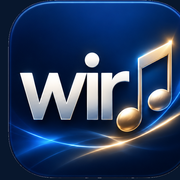
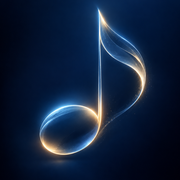
Add files via upload

diff --git a/app.js b/app.js
@@ -1,20 +1,20 @@
 'use strict';
 const $=id=>document.getElementById(id), audio=$('audio');
-let tracks=[],current=-1,shuffle=false,repeat='off',filter='all',sort='original',playing=false,randomHistory=[];
+let tracks=[],current=-1,filter='all',sort='original',playing=false;
 const storageKey='wir-favorites-v1';const selectedKey='wir-selected-track-v2';let refreshing=false;let favorites=new Set(JSON.parse(localStorage.getItem(storageKey)||'[]'));
 const remember=()=>localStorage.setItem(storageKey,JSON.stringify([...favorites]));
 const fmt=s=>Number.isFinite(s)?`${Math.floor(s/60)}:${String(Math.floor(s%60)).padStart(2,'0')}`:'0:00';
 const toast=msg=>{const e=$('toast');e.textContent=msg;e.style.display='block';clearTimeout(toast.timer);toast.timer=setTimeout(()=>e.style.display='none',3200)};
 const canPlay=track=>{const ext=track.file.split('.').pop().toLowerCase();return audio.canPlayType(ext==='mp3'?'audio/mpeg':'audio/mp4')!==''};
-function updateControls(){const t=tracks[current];$('title').textContent=t?t.title:'Noch keine Musik';$('subtitle').textContent=t?(t.artist||'wir · Playlist'):'Füge Audiodateien zum Ordner audio hinzu';$('play').textContent=playing?'❚❚':'▶';$('play').setAttribute('aria-label',playing?'Pause':'Abspielen');$('favorite').classList.toggle('active',!!t&&favorites.has(t.file));$('favorite').innerHTML=(t&&favorites.has(t.file)?'♥':'♡')+' <span>Favorit</span>';$('count').textContent=`(${tracks.length})`;const c=$('cover');c.replaceChildren();if(t&&t.cover){const img=new Image();img.src=t.cover;img.alt='Cover: '+t.title;img.onerror=()=>{c.innerHTML='<div class="cover-placeholder"><span>♫</span><strong>wir</strong></div>'};c.append(img)}else c.innerHTML='<div class="cover-placeholder"><span>♫</span><strong>wir</strong></div>';}
+function updateControls(){const t=tracks[current];$('title').textContent=t?t.title:'Noch keine Musik';$('play').innerHTML=playing?'<svg viewBox="0 0 24 24" aria-hidden="true"><path d="M7 5h4v14H7zm6 0h4v14h-4z" fill="currentColor"/></svg>':'<svg viewBox="0 0 24 24" aria-hidden="true"><path d="M8 5v14l11-7z" fill="currentColor"/></svg>';$('play').setAttribute('aria-label',playing?'Pause':'Abspielen');$('count').textContent=`(${tracks.length})`;const c=$('cover');c.replaceChildren();if(t&&t.cover){const img=new Image();img.src=t.cover;img.alt='Cover: '+t.title;img.onerror=()=>{c.innerHTML='<img src="icons/icon-512.png" alt="Musiknote aus Licht">'};c.append(img)}else c.innerHTML='<img src="icons/icon-512.png" alt="Musiknote aus Licht">';}
 function select(i,autoplay=true){if(i<0||i>=tracks.length)return;current=i;const t=tracks[i];localStorage.setItem(selectedKey,t.file);audio.src=t.file;audio.load();playing=false;updateControls();renderList();if(autoplay)play();}
 async function play(){if(!tracks.length){toast('Noch keine Musik vorhanden.');return}if(current<0)select(0,false);try{await audio.play();playing=true;updateControls()}catch(e){playing=false;updateControls();toast('Wiedergabe nicht möglich. Bitte Audioformat prüfen.')}}
 function pause(){audio.pause();playing=false;updateControls()}
 function stop(){audio.pause();try{audio.currentTime=0}catch(e){}playing=false;updateControls();updateProgress()}
-function next(direction=1){if(!tracks.length)return;let i;if(shuffle&&tracks.length>1){if(direction<0&&randomHistory.length)i=randomHistory.pop();else{randomHistory.push(current);const choices=tracks.map((_,n)=>n).filter(n=>n!==current);i=choices[Math.floor(Math.random()*choices.length)]}}else i=(current+direction+tracks.length)%tracks.length;select(i)}
+function next(direction=1){if(!tracks.length)return;select((current+direction+tracks.length)%tracks.length)}
 function updateProgress(){const dur=audio.duration||0;$('elapsed').textContent=fmt(audio.currentTime||0);$('duration').textContent=fmt(dur);$('seek').value=dur?Math.round((audio.currentTime/dur)*1000):0;}
-function renderList(){const list=$('track-list');list.replaceChildren();let rows=tracks.map((t,i)=>({...t,i}));if(filter==='favorites')rows=rows.filter(t=>favorites.has(t.file));if(sort==='alpha')rows.sort((a,b)=>a.title.localeCompare(b.title,'de'));if(sort==='new')rows.reverse();if(!rows.length){const e=document.createElement('div');e.className='empty';e.textContent=tracks.length?'Hier sind noch keine Favoriten. Tippe bei einem Titel auf ♡.':'Noch keine Titel. Lade MP3-, M4A- oder M4B-Dateien in den Ordner audio hoch.';list.append(e);return}for(const t of rows){const row=document.createElement('div');row.className='track'+(t.i===current?' playing':'');const btn=document.createElement('button');btn.className='track-select';const mini=document.createElement('span');mini.className='mini-cover';if(t.cover){const img=new Image();img.src=t.cover;img.alt='';img.onerror=()=>mini.textContent='♫';mini.append(img)}else mini.textContent='♫';const text=document.createElement('span');text.style.minWidth='0';const name=document.createElement('div');name.className='track-name';name.textContent=t.title;const meta=document.createElement('div');meta.className='track-meta';meta.textContent=(t.artist||'wir')+' · '+t.file.split('.').pop().toUpperCase();text.append(name,meta);btn.append(mini,text);btn.onclick=()=>select(t.i);const heart=document.createElement('button');heart.className='heart'+(favorites.has(t.file)?' on':'');heart.textContent=favorites.has(t.file)?'♥':'♡';heart.setAttribute('aria-label','Favorit umschalten: '+t.title);heart.onclick=()=>{favorites.has(t.file)?favorites.delete(t.file):favorites.add(t.file);remember();renderList();updateControls()};row.append(btn,heart);list.append(row)}}
-$('play').onclick=()=>playing?pause():play();$('stop').onclick=stop;$('previous').onclick=()=>next(-1);$('next').onclick=()=>next(1);$('back').onclick=()=>{if(current>=0)audio.currentTime=Math.max(0,audio.currentTime-15)};$('forward').onclick=()=>{if(current>=0&&Number.isFinite(audio.duration))audio.currentTime=Math.min(audio.duration,audio.currentTime+30)};$('seek').oninput=e=>{if(current>=0&&Number.isFinite(audio.duration))audio.currentTime=Number(e.target.value)/1000*audio.duration};$('shuffle').onclick=()=>{shuffle=!shuffle;$('shuffle').classList.toggle('active',shuffle);$('shuffle').setAttribute('aria-pressed',String(shuffle));randomHistory=[]};$('repeat').onclick=()=>{repeat=repeat==='off'?'all':repeat==='all'?'one':'off';$('repeat-label').textContent=repeat==='off'?'Aus':repeat==='all'?'Alle':'1 Titel';$('repeat').classList.toggle('active',repeat!=='off')};$('favorite').onclick=()=>{if(current<0)return;const file=tracks[current].file;favorites.has(file)?favorites.delete(file):favorites.add(file);remember();updateControls();renderList()};$('toggle-list').onclick=()=>{const e=$('playlist-shell');e.classList.toggle('open');$('toggle-list').setAttribute('aria-expanded',String(e.classList.contains('open')))};$('all-filter').onclick=()=>{filter='all';$('all-filter').classList.add('selected');$('fav-filter').classList.remove('selected');renderList()};$('fav-filter').onclick=()=>{filter='favorites';$('fav-filter').classList.add('selected');$('all-filter').classList.remove('selected');renderList()};$('sort').onchange=e=>{sort=e.target.value;renderList()};audio.ontimeupdate=updateProgress;audio.onloadedmetadata=updateProgress;audio.onpause=()=>{playing=false;updateControls()};audio.onplay=()=>{playing=true;updateControls()};audio.onerror=()=>{if(current>=0){const codes={1:'Wiedergabe abgebrochen',2:'Datei konnte nicht geladen werden',3:'Audio konnte nicht decodiert werden',4:'Audioformat oder Dateipfad nicht unterstützt'};const code=audio.error?.code;toast((codes[code]||'Audiofehler')+' (Code '+(code||'?')+').')}};audio.onended=()=>{if(repeat==='one'){audio.currentTime=0;play()}else if(repeat==='all'||shuffle||current<tracks.length-1)next();else stop()};
+function renderList(){const list=$('track-list');list.replaceChildren();let rows=tracks.map((t,i)=>({...t,i}));if(filter==='favorites')rows=rows.filter(t=>favorites.has(t.file));if(sort==='alpha')rows.sort((a,b)=>a.title.localeCompare(b.title,'de'));if(sort==='new')rows.reverse();if(!rows.length){const e=document.createElement('div');e.className='empty';e.textContent=tracks.length?'Hier sind noch keine Favoriten. Tippe bei einem Titel auf ♡.':'Noch keine Titel. Lade MP3-, M4A- oder M4B-Dateien in den Ordner audio hoch.';list.append(e);return}for(const t of rows){const row=document.createElement('div');row.className='track'+(t.i===current?' playing':'');const btn=document.createElement('button');btn.className='track-select';const mini=document.createElement('span');mini.className='mini-cover';if(t.cover){const img=new Image();img.src=t.cover;img.alt='';img.onerror=()=>mini.textContent='♫';mini.append(img)}else mini.textContent='♫';const text=document.createElement('span');text.style.minWidth='0';const name=document.createElement('div');name.className='track-name';name.textContent=t.title;text.append(name);btn.append(mini,text);btn.onclick=()=>select(t.i);const heart=document.createElement('button');heart.className='heart'+(favorites.has(t.file)?' on':'');heart.textContent=favorites.has(t.file)?'♥':'♡';heart.setAttribute('aria-label','Favorit umschalten: '+t.title);heart.onclick=()=>{favorites.has(t.file)?favorites.delete(t.file):favorites.add(t.file);remember();renderList();updateControls()};row.append(btn,heart);list.append(row)}}
+$('play').onclick=()=>playing?pause():play();$('previous').onclick=()=>next(-1);$('next').onclick=()=>next(1);$('back').onclick=()=>{if(current>=0)audio.currentTime=Math.max(0,audio.currentTime-15)};$('forward').onclick=()=>{if(current>=0&&Number.isFinite(audio.duration))audio.currentTime=Math.min(audio.duration,audio.currentTime+30)};$('seek').oninput=e=>{if(current>=0&&Number.isFinite(audio.duration))audio.currentTime=Number(e.target.value)/1000*audio.duration};$('toggle-list').onclick=()=>{const e=$('playlist-shell');e.classList.toggle('open');$('toggle-list').setAttribute('aria-expanded',String(e.classList.contains('open')))};$('all-filter').onclick=()=>{filter='all';$('all-filter').classList.add('selected');$('fav-filter').classList.remove('selected');renderList()};$('fav-filter').onclick=()=>{filter='favorites';$('fav-filter').classList.add('selected');$('all-filter').classList.remove('selected');renderList()};$('sort').onchange=e=>{sort=e.target.value;renderList()};audio.ontimeupdate=updateProgress;audio.onloadedmetadata=updateProgress;audio.onpause=()=>{playing=false;updateControls()};audio.onplay=()=>{playing=true;updateControls()};audio.onerror=()=>{if(current>=0){const codes={1:'Wiedergabe abgebrochen',2:'Datei konnte nicht geladen werden',3:'Audio konnte nicht decodiert werden',4:'Audioformat oder Dateipfad nicht unterstützt'};const code=audio.error?.code;toast((codes[code]||'Audiofehler')+' (Code '+(code||'?')+').')}};audio.onended=()=>{if(current<tracks.length-1)next();else stop()};
 async function refreshPlaylist({quiet=false}={}){
  if(refreshing)return;refreshing=true;
  const oldFile=tracks[current]?.file;const wasPlaying=!audio.paused&&!audio.ended;
@@ -44,4 +44,4 @@ document.addEventListener('touchstart',e=>{if(e.touches.length!==1||isPlaylistSc
 document.addEventListener('touchmove',e=>{if(pullStart===null)return;pullDistance=Math.max(0,e.touches[0].clientY-pullStart);if(pullDistance>12){indicator.style.opacity='1';indicator.style.transform='translate(-50%,0)';indicator.textContent=pullDistance>75?'↑ Loslassen zum Aktualisieren':'↓ Zum Aktualisieren ziehen'}},{passive:true});
 document.addEventListener('touchend',()=>{if(pullStart!==null&&pullDistance>75)refreshPlaylist();pullStart=null;pullDistance=0;indicator.style.opacity='0';indicator.style.transform='translate(-50%,-15px)'},{passive:true});
 refreshPlaylist({quiet:true});
-if('serviceWorker' in navigator){navigator.serviceWorker.register('./sw.js?v=002').then(reg=>reg.update()).catch(()=>{})}
+if('serviceWorker' in navigator){navigator.serviceWorker.register('./sw.js?v=003').then(reg=>reg.update()).catch(()=>{})}

diff --git a/style.css b/style.css
@@ -1,25 +1,17 @@
 
 :root{color-scheme:dark;--bg:#08172d;--surface:#112643;--accent:#8bc7e9;--text:#f1f6ff;--muted:#9bb1ca}
-*{box-sizing:border-box}
-html,body{margin:0;width:100%;height:100%;overflow:hidden;overscroll-behavior:none;background:var(--bg);font-family:-apple-system,BlinkMacSystemFont,"Segoe UI",sans-serif;color:var(--text)}
-body{background:radial-gradient(ellipse at 50% 15%,#1b3556 0%,#08172d 72%)}
-button,input,select{font:inherit}button{cursor:pointer;-webkit-tap-highlight-color:transparent}
-.app{position:relative;width:min(100%,560px);height:100vh;height:100dvh;min-height:0;margin:auto;display:flex;flex-direction:column;padding:calc(env(safe-area-inset-top) + 8px) 16px calc(env(safe-area-inset-bottom) + 9px);gap:7px;overflow:hidden}
-header{display:flex;align-items:center;justify-content:space-between;flex:none;min-height:34px}
-.home-refresh{border:0;background:transparent;padding:4px 1px;color:inherit}
-.brand{font-size:26px;font-weight:750;letter-spacing:-1px}.brand-dot{color:var(--accent)}.tagline{font-size:10px;letter-spacing:3px;color:var(--muted)}
-.now{min-height:0;flex:0 1 auto;display:flex;flex-direction:column;align-items:center;gap:3px;overflow:hidden}
-h1{font-size:clamp(17px,2.7vh,24px);font-weight:650;text-align:center;line-height:1.22;margin:0;max-width:100%;white-space:nowrap;overflow:hidden;text-overflow:ellipsis;flex:none}
-#subtitle{font-size:11px;color:var(--muted);margin:0 0 2px;text-align:center;white-space:nowrap;overflow:hidden;text-overflow:ellipsis;max-width:100%;flex:none}
-.cover{width:min(100%,min(38dvh,330px));height:min(100vw - 32px,min(38dvh,330px));aspect-ratio:1/1;max-height:min(38dvh,330px);border-radius:18px;overflow:hidden;box-shadow:0 12px 28px #0008;background:linear-gradient(140deg,#345779,#10213e 65%,#09172a);flex:none;display:grid;place-items:center}
-.cover img{height:100%;width:100%;object-fit:contain;display:block}.cover-placeholder{display:flex;flex-direction:column;align-items:center;color:#bcdcf0}.cover-placeholder span{font-size:clamp(48px,9vh,90px);line-height:1.2}.cover-placeholder strong{font-size:clamp(26px,5vh,46px);letter-spacing:-3px}
+*{box-sizing:border-box}html,body{margin:0;width:100%;height:100%;overflow:hidden;overscroll-behavior:none;background:var(--bg);font-family:-apple-system,BlinkMacSystemFont,"Segoe UI",sans-serif;color:var(--text)}
+body{background:radial-gradient(ellipse at 50% 12%,#1b3556 0%,#08172d 75%)}button,input,select{font:inherit}button{cursor:pointer;-webkit-tap-highlight-color:transparent}
+.app{width:min(100%,620px);height:100vh;height:100dvh;min-height:0;margin:auto;display:flex;flex-direction:column;padding:calc(env(safe-area-inset-top) + 5px) 14px calc(env(safe-area-inset-bottom) + 6px);gap:5px;overflow:hidden;position:relative}
+header{display:flex;align-items:center;justify-content:space-between;flex:none;min-height:32px}.home-refresh{border:0;background:transparent;padding:3px 1px;color:inherit}.brand{font-size:25px;font-weight:750;letter-spacing:-1px}.brand-dot{color:var(--accent)}.tagline{font-size:10px;letter-spacing:2.7px;color:var(--muted)}
+.now{min-height:0;flex:0 1 auto;display:flex;flex-direction:column;align-items:center;gap:6px;overflow:hidden}h1{font-size:clamp(17px,2.5vh,23px);font-weight:650;text-align:center;line-height:1.2;margin:0;max-width:100%;white-space:nowrap;overflow:hidden;text-overflow:ellipsis;flex:none}
+.cover{width:min(100%,34dvh,315px);height:min(100%,34dvh,315px);aspect-ratio:1;max-width:calc(100vw - 32px);border-radius:16px;overflow:hidden;box-shadow:0 8px 22px #0007;background:#10213e;flex:none;display:grid;place-items:center}.cover img{height:100%;width:100%;object-fit:contain;display:block}
 .controls{flex:none;padding:0 2px}.seek-row{display:flex;gap:8px;align-items:center;font-size:12px;color:var(--muted);font-variant-numeric:tabular-nums}.seek-row span{min-width:34px}.seek-row span:last-child{text-align:right}#seek{flex:1;min-width:0;accent-color:var(--accent);cursor:pointer;height:20px}
-.transport{display:flex;align-items:center;justify-content:space-between;gap:2px;margin:3px 0}.transport button{border:0;background:none;color:var(--text);font-size:22px;min-width:34px;min-height:41px;display:grid;place-items:center}.transport .primary{border-radius:50%;background:var(--accent);color:#0b2239;width:54px;height:54px;font-size:24px;box-shadow:0 5px 18px #0005}.transport .jump{position:relative;font-size:32px}.jump small{position:absolute;top:15px;font-size:10px;font-weight:800}
-.extras{display:flex;justify-content:space-around;gap:5px}.extras button{background:none;border:0;color:var(--muted);padding:5px;font-size:18px}.extras button span{font-size:12px}.extras button.active{color:var(--accent)}
-.playlist-shell{flex:1 1 0;min-height:54px;border:1px solid #38506d;background:#112540e8;border-radius:14px;overflow:hidden;display:flex;flex-direction:column}.playlist-shell:not(.open){flex:0 0 auto}.list-toggle{width:100%;display:flex;justify-content:space-between;align-items:center;background:none;border:0;color:var(--text);font-weight:650;text-align:left;padding:11px 15px;flex:none}.list-toggle b{font-weight:400;color:var(--muted)}#chevron{transition:transform .2s}.playlist-shell:not(.open) #chevron{transform:rotate(180deg)}.playlist-body{display:flex;flex-direction:column;min-height:0;flex:1}.playlist-shell:not(.open) .playlist-body{display:none}
-.list-tools{display:flex;align-items:center;gap:5px;padding:0 10px 9px;flex:none}.list-tools button,.list-tools select{border:1px solid #395573;background:#152c4a;border-radius:9px;color:var(--muted);font-size:11px;padding:7px 8px}.list-tools .selected{background:#2b5275;color:white}.list-tools select{margin-left:auto;max-width:120px}
-.track-list{overflow-y:auto;overflow-x:hidden;-webkit-overflow-scrolling:touch;overscroll-behavior:contain;min-height:0;flex:1}.track{display:flex;gap:10px;align-items:center;padding:9px 11px;border-top:1px solid #ffffff13}.track.playing{background:#29486966}.track .track-select{flex:1;min-width:0;text-align:left;color:var(--text);background:none;border:0;display:flex;align-items:center;gap:10px}.mini-cover{width:40px;height:40px;border-radius:6px;background:#254460;display:grid;place-items:center;overflow:hidden;flex:none}.mini-cover img{width:100%;height:100%;object-fit:cover}.track-name{overflow:hidden;text-overflow:ellipsis;white-space:nowrap;font-size:13px}.track-meta{color:var(--muted);font-size:10px;margin-top:3px}.heart{background:none;border:0;color:#a6bad0;font-size:23px;padding:8px}.heart.on{color:#ff829a}.empty{padding:20px;text-align:center;color:var(--muted);font-size:13px;line-height:1.5}
+.transport{display:flex;align-items:center;justify-content:space-between;gap:2px;margin:0}.transport button{border:0;background:none;color:#c2d8ea;font-size:22px;min-width:42px;min-height:43px;display:grid;place-items:center}.transport .primary{border:1px solid #6791b4;border-radius:50%;background:linear-gradient(150deg,#244361,#112944);color:#bde7ff;width:49px;height:49px;box-shadow:0 3px 10px #0004}.primary svg{width:22px;height:22px}.transport .jump{position:relative;width:43px;height:43px}.jump svg{width:36px;height:36px;fill:none;stroke:currentColor;stroke-width:2.5;stroke-linecap:round;stroke-linejoin:round}.jump small{position:absolute;top:17px;left:0;right:0;text-align:center;font-size:10px;font-weight:700;pointer-events:none}
+.playlist-shell{flex:1 1 0;min-height:65px;border:1px solid #38506d;background:#112540e8;border-radius:14px;overflow:hidden;display:flex;flex-direction:column}.playlist-shell:not(.open){flex:0 0 auto}.list-toggle{width:100%;display:flex;justify-content:space-between;align-items:center;background:none;border:0;color:var(--text);font-weight:650;text-align:left;padding:9px 13px;flex:none}.list-toggle b{font-weight:400;color:var(--muted)}#chevron{transition:transform .2s}.playlist-shell:not(.open) #chevron{transform:rotate(180deg)}.playlist-body{display:flex;flex-direction:column;min-height:0;flex:1}.playlist-shell:not(.open) .playlist-body{display:none}
+.list-tools{display:flex;align-items:center;gap:5px;padding:0 9px 6px;flex:none}.list-tools button,.list-tools select{border:1px solid #395573;background:#152c4a;border-radius:8px;color:var(--muted);font-size:11px;padding:6px 8px}.list-tools .selected{background:#2b5275;color:white}.list-tools select{margin-left:auto;max-width:120px}
+.track-list{overflow-y:auto;overflow-x:hidden;-webkit-overflow-scrolling:touch;overscroll-behavior:contain;min-height:0;flex:1}.track{display:flex;gap:7px;align-items:center;padding:5px 9px;border-top:1px solid #ffffff13;min-height:55px}.track.playing{background:#29486966}.track .track-select{flex:1;min-width:0;text-align:left;color:var(--text);background:none;border:0;display:flex;align-items:center;gap:9px;padding:0}.mini-cover{width:39px;height:39px;border-radius:6px;background:#254460;display:grid;place-items:center;overflow:hidden;flex:none}.mini-cover img{width:100%;height:100%;object-fit:cover}.track-name{overflow:hidden;text-overflow:ellipsis;white-space:nowrap;font-size:13px}.heart{background:none;border:0;color:#a6bad0;font-size:23px;padding:6px 8px}.heart.on{color:#ff829a}.empty{padding:20px;text-align:center;color:var(--muted);font-size:13px;line-height:1.5}
 .toast{position:fixed;z-index:30;left:50%;bottom:calc(env(safe-area-inset-bottom) + 45px);transform:translateX(-50%);background:#28486a;color:white;border-radius:12px;padding:10px 14px;font-size:12px;display:none;max-width:90%;text-align:center;box-shadow:0 6px 24px #0008}.pull-indicator{position:absolute;z-index:20;top:calc(env(safe-area-inset-top) + 43px);left:50%;transform:translate(-50%,-15px);opacity:0;pointer-events:none;white-space:nowrap;padding:7px 12px;border-radius:12px;background:#294b6e;color:white;font-size:12px;transition:opacity .12s}
-@media(max-height:720px){.app{gap:4px;padding-top:calc(env(safe-area-inset-top) + 4px)}.cover{width:min(100%,min(32dvh,270px));height:min(100vw - 32px,min(32dvh,270px));max-height:min(32dvh,270px)}.transport .primary{width:48px;height:48px}.list-toggle{padding:9px 13px}}
-@media(max-height:550px){.cover{width:min(100%,min(25dvh,185px));height:min(100vw - 32px,min(25dvh,185px));max-height:min(25dvh,185px)}.transport .primary{width:42px;height:42px}.extras button{padding:2px}}
-@media(min-width:750px){.app{max-width:560px;padding-top:14px;padding-bottom:14px}.cover{width:min(100%,min(37dvh,350px));height:min(100vw - 32px,min(37dvh,350px));max-height:min(37dvh,350px)}}
+@media(max-height:700px){.cover{width:min(100%,30dvh,265px);height:min(100%,30dvh,265px)}.app{gap:3px}.transport .primary{width:44px;height:44px}}
+@media(max-height:530px){.cover{width:min(100%,24dvh,185px);height:min(100%,24dvh,185px)}.transport button{min-height:36px}.transport .primary{width:39px;height:39px}}
+@media(min-width:750px){.app{padding-top:12px;padding-bottom:12px}.cover{width:min(34dvh,340px);height:min(34dvh,340px)}}

diff --git a/index.html b/index.html
@@ -1,2 +1,2 @@
-<!doctype html><html lang="de"><head><meta charset="utf-8"><meta name="viewport" content="width=device-width,initial-scale=1,viewport-fit=cover"><meta name="theme-color" content="#08172d"><meta name="apple-mobile-web-app-capable" content="yes"><meta name="apple-mobile-web-app-status-bar-style" content="black-translucent"><meta name="apple-mobile-web-app-title" content="wir"><link rel="manifest" href="manifest.webmanifest"><link rel="apple-touch-icon" href="icons/icon-192.png"><link rel="stylesheet" href="style.css?v=002"><title>wir · Musik</title>  <link rel="apple-touch-icon" href="icons/apple-touch-icon.png">
-</head><body><main class="app"><header><button class="brand home-refresh" id="home-brand" type="button" title="Musik aktualisieren" aria-label="Zur Startansicht und Musik aktualisieren">wir<span class="brand-dot">.</span></button><button class="tagline home-refresh" id="home-tagline" type="button" title="Musik aktualisieren" aria-label="Zur Startansicht und Musik aktualisieren">UNSERE MUSIK</button></header><div id="pull-indicator" class="pull-indicator" aria-live="polite">↓ Zum Aktualisieren ziehen</div><section class="now"><h1 id="title">Noch keine Musik</h1><p id="subtitle">Füge Audiodateien zum Ordner audio hinzu</p><div class="cover" id="cover"><div class="cover-placeholder"><span>♫</span><strong>wir</strong></div></div></section><section class="controls"><div class="seek-row"><span id="elapsed">0:00</span><input id="seek" type="range" min="0" max="1000" value="0" aria-label="Abspielposition"><span id="duration">0:00</span></div><div class="transport"><button id="previous" title="Vorheriger Titel" aria-label="Vorheriger Titel">⏮</button><button id="back" class="jump" title="15 Sekunden zurück" aria-label="15 Sekunden zurück"><span>↶</span><small>15</small></button><button id="play" class="primary" title="Abspielen oder pausieren" aria-label="Abspielen">▶</button><button id="stop" title="Stopp" aria-label="Stopp">■</button><button id="forward" class="jump" title="30 Sekunden vor" aria-label="30 Sekunden vor"><span>↷</span><small>30</small></button><button id="next" title="Nächster Titel" aria-label="Nächster Titel">⏭</button></div><div class="extras"><button id="shuffle" aria-pressed="false" title="Zufall">🔀 <span>Zufall</span></button><button id="repeat" title="Wiederholen: aus" aria-label="Wiederholen">🔁 <span id="repeat-label">Aus</span></button><button id="favorite" title="Favorit" aria-label="Favorit">♡ <span>Favorit</span></button></div></section><section class="playlist-shell open" id="playlist-shell"><button id="toggle-list" class="list-toggle" aria-expanded="true"><span>♫ &nbsp; Playlist <b id="count">(0)</b></span><span id="chevron">⌄</span></button><div class="playlist-body" id="playlist-body"><div class="list-tools"><button id="all-filter" class="selected">Alle Titel</button><button id="fav-filter">♥ Favoriten</button><select id="sort" aria-label="Sortierung"><option value="original">Reihenfolge</option><option value="alpha">Titel A–Z</option><option value="new">Neueste zuerst</option></select></div><div class="track-list" id="track-list"></div></div></section><div class="toast" id="toast" role="status"></div></main><audio id="audio" preload="metadata"></audio><script src="app.js?v=002" defer></script></body></html>
+<!doctype html><html lang="de"><head><meta charset="utf-8"><meta name="viewport" content="width=device-width,initial-scale=1,viewport-fit=cover"><meta name="theme-color" content="#08172d"><meta name="apple-mobile-web-app-capable" content="yes"><meta name="apple-mobile-web-app-status-bar-style" content="black-translucent"><meta name="apple-mobile-web-app-title" content="wir"><link rel="manifest" href="manifest.webmanifest"><link rel="apple-touch-icon" href="icons/icon-192.png"><link rel="stylesheet" href="style.css?v=003"><title>wir · Musik</title>  <link rel="apple-touch-icon" href="icons/apple-touch-icon.png">
+</head><body><main class="app"><header><button class="brand home-refresh" id="home-brand" type="button" title="Musik aktualisieren" aria-label="Zur Startansicht und Musik aktualisieren">wir<span class="brand-dot">.</span></button><button class="tagline home-refresh" id="home-tagline" type="button" title="Musik aktualisieren" aria-label="Zur Startansicht und Musik aktualisieren">UNSERE MUSIK</button></header><div id="pull-indicator" class="pull-indicator" aria-live="polite">↓ Zum Aktualisieren ziehen</div><section class="now"><h1 id="title">Noch keine Musik</h1><div class="cover" id="cover"><img src="icons/icon-512.png" alt="Musiknote aus Licht"></div></section><section class="controls"><div class="seek-row"><span id="elapsed">0:00</span><input id="seek" type="range" min="0" max="1000" value="0" aria-label="Abspielposition"><span id="duration">0:00</span></div><div class="transport"><button id="previous" title="Vorheriger Titel" aria-label="Vorheriger Titel">⏮</button><button id="back" class="jump" title="15 Sekunden zurück" aria-label="15 Sekunden zurück"><svg viewBox="0 0 48 48" aria-hidden="true"><path d="M15 11A18 18 0 1 1 7 26"/><path d="M15 3v9H6"/></svg><small>15</small></button><button id="play" class="primary" title="Abspielen oder pausieren" aria-label="Abspielen"><svg viewBox="0 0 24 24" aria-hidden="true"><path d="M8 5v14l11-7z" fill="currentColor"/></svg></button><button id="forward" class="jump" title="30 Sekunden vor" aria-label="30 Sekunden vor"><svg viewBox="0 0 48 48" aria-hidden="true"><path d="M33 11A18 18 0 1 0 41 26"/><path d="M33 3v9h9"/></svg><small>30</small></button><button id="next" title="Nächster Titel" aria-label="Nächster Titel">⏭</button></div></section><section class="playlist-shell open" id="playlist-shell"><button id="toggle-list" class="list-toggle" aria-expanded="true"><span>♫ &nbsp; Playlist <b id="count">(0)</b></span><span id="chevron">⌄</span></button><div class="playlist-body" id="playlist-body"><div class="list-tools"><button id="all-filter" class="selected">Alle Titel</button><button id="fav-filter">♥ Favoriten</button><select id="sort" aria-label="Sortierung"><option value="original">Reihenfolge</option><option value="alpha">Titel A–Z</option><option value="new">Neueste zuerst</option></select></div><div class="track-list" id="track-list"></div></div></section><div class="toast" id="toast" role="status"></div></main><audio id="audio" preload="metadata"></audio><script src="app.js?v=003" defer></script></body></html>

diff --git a/sw.js b/sw.js
@@ -1,5 +1,5 @@
-const CACHE='wir-player-002';
-const ASSETS=['./index.html','./style.css?v=002','./app.js?v=002','./manifest.webmanifest','./icons/icon-192.png','./icons/icon-512.png'];
+const CACHE='wir-player-003';
+const ASSETS=['./index.html','./style.css?v=003','./app.js?v=003','./manifest.webmanifest','./icons/icon-192.png','./icons/icon-512.png'];
 self.addEventListener('install',event=>{event.waitUntil(caches.open(CACHE).then(c=>c.addAll(ASSETS)));self.skipWaiting()});
 self.addEventListener('activate',event=>{event.waitUntil(caches.keys().then(keys=>Promise.all(keys.filter(k=>k.startsWith('wir-player-')&&k!==CACHE).map(k=>caches.delete(k)))));self.clients.claim()});
 self.addEventListener('fetch',event=>{const req=event.request;if(req.method!=='GET')return;const url=new URL(req.url);if(url.origin!==location.origin)return;

diff --git a/generate_playlist.py b/generate_playlist.py
@@ -56,6 +56,7 @@ def metadata(path):
 
 
 tracks = []
+(ROOT / 'audio').mkdir(exist_ok=True)
 for audio in sorted((ROOT / 'audio').iterdir(), key=lambda p: p.name.casefold()):
     if not audio.is_file() or audio.suffix.lower() not in FORMATS:
         continue

diff --git a/README.md b/README.md
@@ -1,35 +1,19 @@
-# wir – Unsere Musik
+# wir · Musikplayer 003
 
-Eine installierbare Web-App (PWA) mit Cover, Play/Pause/Stopp, 15 Sekunden zurück, 30 Sekunden vor, Titelsprung, Zufall, Wiederholung, Favoriten und intern scrollbarer Playlist.
+Kompakte Oberfläche, automatisch geöffnete Playlist, Favoriten pro Titel, 15/30-Sekunden-Kreispfeile, Play/Pause und Aktualisierung über die beiden Kopf-Schaltflächen sowie Pull-to-Refresh. Das Standardcover und die PWA-Icons verwenden die neue Note aus Licht.
 
-## Erste Einrichtung
+## Update auf GitHub
 
-1. Alle Dateien und Ordner dieses Pakets **in das Hauptverzeichnis** des GitHub-Repositories `wir` hochladen (einschließlich `.github`). Die bestehende README darf ersetzt werden.
-2. Unter **Settings → Pages** `Deploy from a branch`, `main`, `/(root)` wählen und speichern.
-3. Unter **Settings → Actions → General → Workflow permissions** falls nötig **Read and write permissions** aktivieren. Nur erforderlich, falls der automatische Playlist-Workflow keine Schreibberechtigung hat.
-4. Die Web-App aufrufen: `https://ywww2zjr9t-ctrl.github.io/wir/` (Benutzernamen prüfen).
+**Wichtig:** Lade den Inhalt dieses Pakets in das Hauptverzeichnis des Repositories hoch, **nicht den übergeordneten Ordner**. Lade den bestehenden Ordner `audio/` nicht erneut hoch und lösche ihn nicht.
 
-## Musik hinzufügen
+Die Datei `playlist.json` ist absichtlich **nicht** enthalten: Sie wird automatisch aus deinen bereits vorhandenen Musikdateien erstellt und soll beim Update nicht durch eine leere Liste überschrieben werden. Die vorhandene `playlist.json` auf GitHub bleibt erhalten.
 
-- Neue **MP3**, **M4A** oder **M4B** in den Ordner `audio/` hochladen.
-- Cover und Titel werden automatisch aus den **eingebetteten Metadaten** gelesen. Kein separater Cover-Upload nötig. Fehlt ein Cover, erscheint das neutrale App-Cover.
-- Nach dem Hochladen erzeugt GitHub Actions die `playlist.json` einschließlich eingebetteter Cover automatisch. Das dauert gewöhnlich kurz; danach die Web-App neu laden.
-- Wenn du mehrere Dateien auf einmal hochlädst, kannst du sie auf GitHub im jeweiligen Ordner hineinziehen.
-- GitHub begrenzt Uploads über die Weboberfläche auf **25 MiB pro Datei**; größere Audiodateien benötigen Git/Git LFS oder eine andere Ablage. GitHub blockiert normale Git-Dateien ab 100 MiB.
-- Der Player ändert beim Hinzufügen von Musik **keinen Programmcode**.
+Der Workflow muss unter `.github/workflows/update-playlist.yml` liegen. Beim Browser-Upload kann GitHub versteckte Ordner auslassen; kontrolliere daher den Workflow im Repository und ersetze ihn nur, falls erforderlich, direkt über den GitHub-Dateieditor.
 
-## Installation auf Smartphones
+## Veröffentlichung
 
-**iPhone:** Webseite in Safari öffnen → Teilen → „Zum Home-Bildschirm“ → ggf. „Als Web-App öffnen“ → Hinzufügen.
-
-**Android (Chrome):** Webseite öffnen → Menü ⋮ → „App installieren“ oder „Zum Startbildschirm hinzufügen“ → bestätigen.
-
-Ohne Installation funktioniert die Webseite im normalen Browser. Favoriten werden **pro Browser/Gerät lokal** gespeichert und nicht zwischen Geräten synchronisiert.
+Nach dem Commit auf den erfolgreichen GitHub-Pages-Deploy warten. App vollständig schließen und neu öffnen; gegebenenfalls auf `wir.` tippen, um die Musikliste neu zu laden.
 
 ## Hinweise
 
-- M4A/M4B funktionieren, wenn der Browser den enthaltenen Codec unterstützt; DRM-geschützte Dateien funktionieren nicht.
-- Automatische Wiedergabe startet erst nach einer Nutzeraktion (Browservorgabe).
-- Hintergrundwiedergabe/Sperrbildschirm-Steuerung ist vom Gerät und Browser abhängig.
-- Die Seite ist bei öffentlichem Repository und GitHub Pages **öffentlich erreichbar**. Ein unbekannter Link ist kein Passwortschutz.
-- Die App-Oberfläche wird teilweise zwischengespeichert, **Musik nicht**. Ohne Internetverbindung sind die Audiodateien nicht verfügbar.
+Audioformate MP3, M4A und M4B werden in der Playlist erkannt; die Wiedergabe hängt von den Codecs des jeweiligen Browsers ab. Favoriten und zuletzt ausgewählter Titel werden lokal auf dem jeweiligen Gerät gespeichert.
